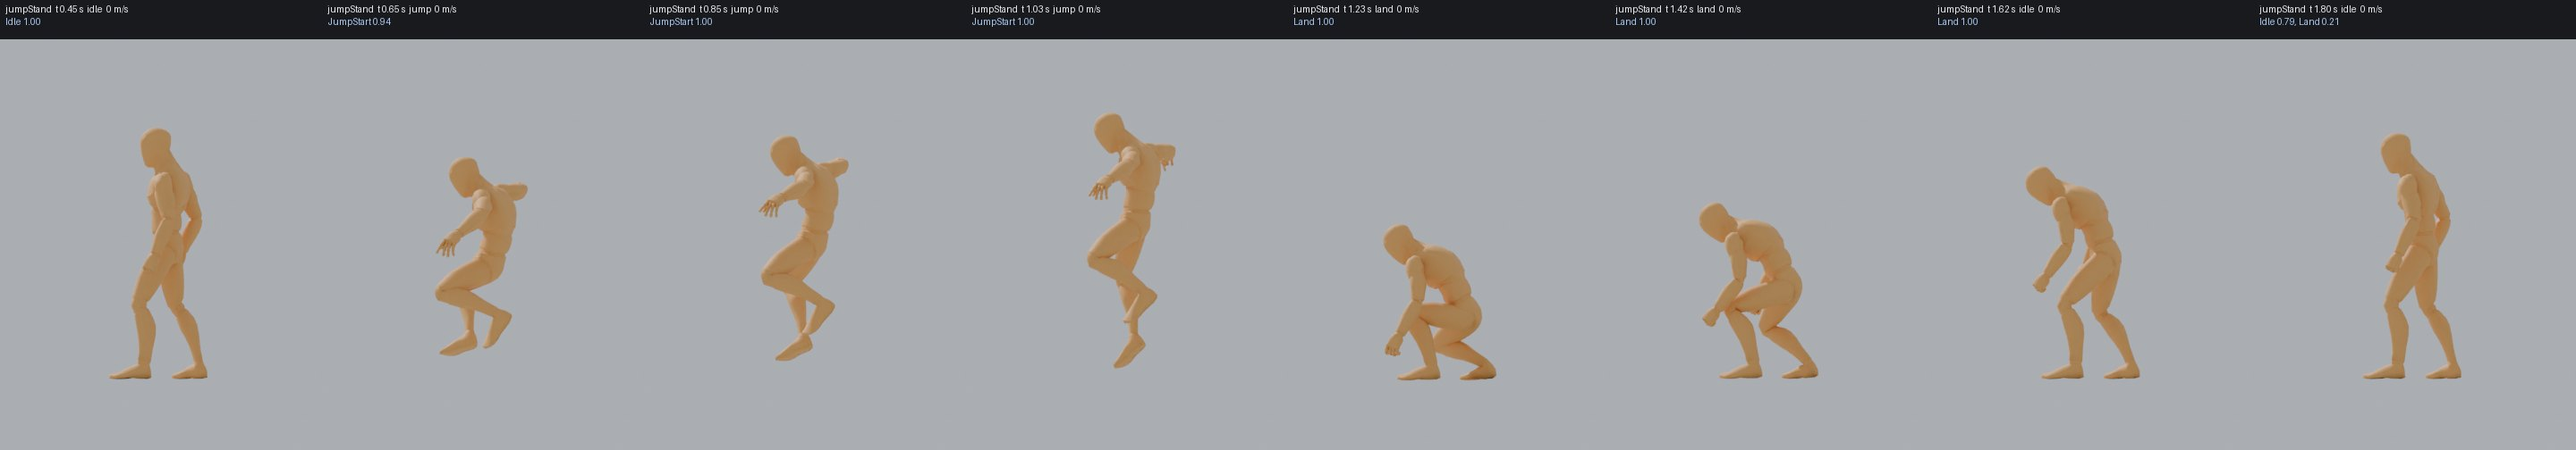
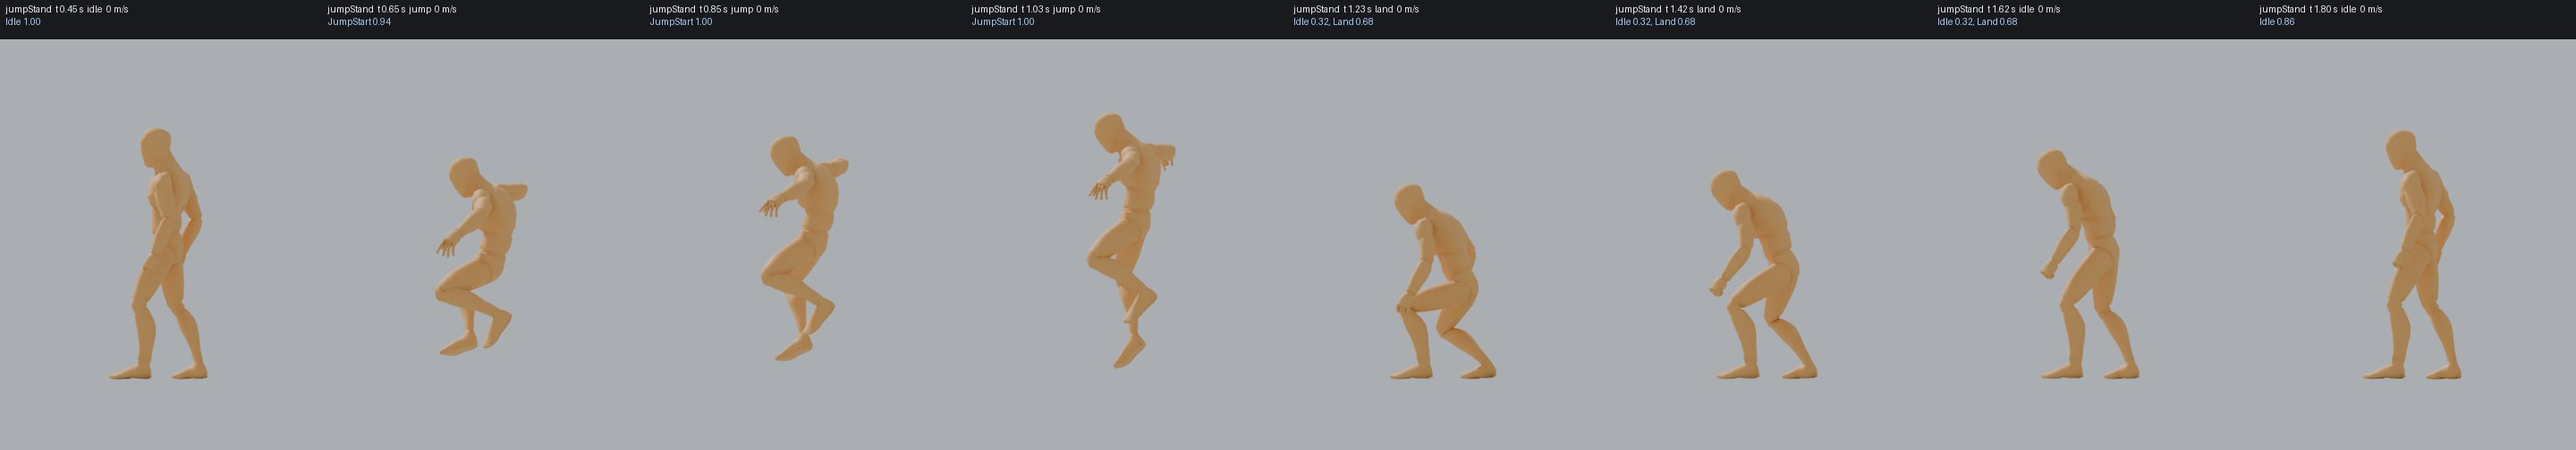
UAL: city fix (leg measure read a stale parent matrix: every leg lifted 30 cm in the city), stair foot float (planted leg-lift released in ~1 frame), body onto the ground at touch-down, stairs scan reaches 2.25 m ahead when running, landing crouch mixed by fall speed; browser strip tiler

diff --git a/viewer/character/locomotion.js b/viewer/character/locomotion.js
@@ -292,6 +292,7 @@ export class Locomotion {
   _land(fallV, st) {
     const C = this.role;
     // a hard landing at speed: the roll (in place: the body keeps the controller's speed)
+    this._landW = 1;
     if (C.roll && fallV > this.p.rollFall && st.speed > 2.5) { this.cur = C.roll; C.roll.t = C.roll.meta.touchdown ? Math.max(0, C.roll.meta.touchdown - 0.55) : 0; this._landHold = Math.max(0.3, C.roll.dur - C.roll.t - 0.25); this._go("land", 0.08); return; }
     // running on: straight back into the run (the IK's landing absorb dips the pelvis), no crouching land
     if (st.speed > 0.6 * this.runSpeed && fallV < 7) { this.cur = null; this.phase = 0.25; this._go("move", 0.22); return; }
@@ -299,7 +300,9 @@ export class Locomotion {
       // the jump clip's own landing
       this.cur = C.jump; C.jump.t = C.jump.meta.touchdown ?? C.jump.t; this._landHold = 0.45; this._go("land", 0.06);
     } else if (C.land && fallV > 3.5) {
+      // (the UAL landing is a deep crouch: mixed with the standing pose by the fall speed, a hop's landing is a dip)
       this.cur = C.land; C.land.t = C.land.meta.touchdown ?? 0; this._landHold = Math.min(0.7, 0.25 + fallV * 0.05); this._go("land", 0.06);
+      this._landW = Math.min(1, Math.max(0.35, 0.35 + (fallV - 4) / 6));
     } else { this.cur = null; this._go(st.speed > 0.3 ? "move" : "idle", 0.1); }
   }
 
@@ -388,7 +391,10 @@ export class Locomotion {
       }
       case "fall": { const c = C.fall; if (c) { c.t = (c.t + dt) % c.dur; c.target = 1; } else if (C.idle) C.idle.target = 1; break; }
       case "land": {
-        const c = this.cur; c.t = Math.min(c.dur, c.t + dt * (speed > 1 ? 1.4 : 1)); c.target = 1;
+        const c = this.cur; c.t = Math.min(c.dur, c.t + dt * (speed > 1 ? 1.4 : 1));
+        const lw = c === C.land ? this._landW ?? 1 : 1, id = this._idleClip(st);
+        c.target = lw;
+        if (lw < 1 && id) { id.t = (id.t + dt) % id.dur; id.target = 1 - lw; }
         this._landHold -= dt * (wantMove ? 2 : 1);
         if (this._landHold <= 0) { this.cur = null; if (speed > 0.3 || wantMove) { this.phase = 0.25; this._go("move", 0.25); } else this._go("idle", 0.35); }
         break;
@@ -668,7 +674,7 @@ export class Locomotion {
       const L = ik.legs[i];
       const want = L.need === null ? 0 : Math.max(0, Math.min(0.3, L.need - this.fit));
       const cur = L.lift || 0;
-      L.lift = cur + (want - cur) * (1 - Math.exp(-dt / (want > cur || L.planted ? 0.02 : 0.08)));
+      L.lift = cur + (want - cur) * (1 - Math.exp(-dt / (L.planted && want < cur ? 0.008 : want > cur || L.planted ? 0.02 : 0.08)));
       // (the edge slide: on while planted, eased; a swinging foot carries none)
       L.sw = (L.sw || 0) + ((L.planted && (L.slx || L.slz) ? 1 : 0) - (L.sw || 0)) * (1 - Math.exp(-dt / 0.04));
       if (L.lift < 2e-3 && L.sw < 2e-3) continue;

diff --git a/viewer/character/index.js b/viewer/character/index.js
@@ -188,8 +188,10 @@ export class ThirdPerson {
     const vl = Math.hypot(c.vel[0], c.vel[2]);
     if (vl > 0.2) { dx = c.vel[0] / vl; dz = c.vel[2] / vl; }
     const x0 = c.pos[0], y0 = c.pos[1], z0 = c.pos[2];
+    // (running: the rays spread up to 2.25 m ahead, 10 cm apart, so the body slows before the first step)
+    const sp = 0.05 * Math.min(2, Math.max(1, vl / 2.5));
     for (let i = 0; i < 26; i++) {
-      const s = -0.25 + 0.05 * i;
+      const s = -0.25 + sp * i;
       R[0] = x0 + dx * s; R[1] = y0 + 0.9; R[2] = z0 + dz * s; R[3] = 0; R[4] = -1; R[5] = 0; H[0] = 2; H[4] = -1;
       W.raycast();
       h[i] = H[4] >= 0 && H[2] > 0.7 ? y0 + 0.9 - H[0] : NaN;
@@ -203,7 +205,7 @@ export class ThirdPerson {
       if (sgn && g !== sgn) { n = 0; nr = 0; nt = 0; last = -1e9; }
       sgn = g; n++; rs[nr++] = Math.abs(d);
       // the riser's place between the two samples: bisected (3 more rays: ~6 mm)
-      let a = -0.25 + 0.05 * i, b = a + 0.05;
+      let a = -0.25 + sp * i, b = a + sp;
       for (let it = 0; it < 3; it++) {
         const m = (a + b) * 0.5;
         R[0] = x0 + dx * m; R[1] = y0 + 0.9; R[2] = z0 + dz * m; R[3] = 0; R[4] = -1; R[5] = 0; H[0] = 2; H[4] = -1;
@@ -239,7 +241,7 @@ export class ThirdPerson {
     }
     S.ahead = ahead;
     // (the stair gait starts with the step that reaches the next riser, not a metre before)
-    const near = ahead > 8 ? 1 : 1 - Math.min(1, Math.max(0, (ahead - 0.25) / 0.5));
+    const near = ahead > 8 ? 1 : 1 - Math.min(1, Math.max(0, (ahead - 0.25) / Math.max(0.5, vl * 0.35)));
     const want = ok ? near * near * (3 - 2 * near) : 0;
     S.k += (want - S.k) * (1 - Math.exp(-(want > S.k ? 10 : 8) * dt));
     if (S.k < 0.01 && !ok) { S.dir = 0; S.ahead = 9; }
@@ -278,11 +280,14 @@ export class ThirdPerson {
       if (n) target = sum / n;
       target = Math.min(py + 0.3, Math.max(py - 0.3, target));       // (never more than a step from the capsule's feet)
     }
-    if (!B.init) { B.y = target; B.v = 0; B.init = true; }
+    // (a touch-down from the air: onto the ground at once; the spring trails a falling body by ~v / om, which left the
+    // landing feet floating for a few frames)
+    if (!B.init || (c.grounded && !B.air0 && B.wasAir && B.y > target)) { B.y = target; B.v = 0; B.init = true; }
     else if (dt > 0) {
       const om = c.grounded ? 20 : 45, e = B.y - target, ex = Math.exp(-om * dt), tmp = (B.v + om * e) * dt;
       B.v = (B.v - om * tmp) * ex; B.y = target + (e + tmp) * ex;
     }
+    B.wasAir = !c.grounded;
     return B.y;
   }
   /** Where the character is (feet, interpolated). */

diff --git a/viewer/character/legIK.js b/viewer/character/legIK.js
@@ -65,7 +65,9 @@ export class LegIK {
 
   /** Leg lengths and the ankle / ball heights over the sole, in the current (standing) pose. */
   _measure() {
-    this.model.updateMatrixWorld(true);
+    // (the parents' world matrices too: in the city the slot already stands 70 m up when the model is set, and a stale
+    // parent matrix put the box's floor at 0 while the bones were at 70: every leg "lifted" 30 cm)
+    this.model.updateWorldMatrix(true, true);
     const box = new THREE.Box3().setFromObject(this.model);
     const floor = box.min.y;
     for (const L of this.legs) {

diff --git a/tools/characters/shotStrip.py b/tools/characters/shotStrip.py
@@ -1,0 +1,21 @@
+# Browser pose strips: crops real screenshots (the character centred by the side camera) and tiles them, labelled.
+#   python tools/characters/shotStrip.py <out.jpg> <labels.json> <shot0.jpeg> <shot1.jpeg> ... [--crop x0,y0,x1,y1]
+# labels.json: [{t, mode, speed, top, stairs}, ...] (the in-page harness log, one per shot)
+import sys, json
+from PIL import Image, ImageDraw
+args = sys.argv[1:]
+crop = (430, 150, 1010, 790)
+if "--crop" in args:
+    i = args.index("--crop"); crop = tuple(int(v) for v in args[i + 1].split(",")); del args[i:i + 2]
+out, labels, shots = args[0], json.load(open(args[1])), args[2:]
+ims = [Image.open(s).convert("RGB").crop(crop) for s in shots]
+w, h = ims[0].size
+strip = Image.new("RGB", (w * len(ims), h + 40), (24, 26, 30))
+d = ImageDraw.Draw(strip)
+for i, im in enumerate(ims):
+    strip.paste(im, (i * w, 40))
+    f = labels[i] if i < len(labels) else {}
+    d.text((i * w + 6, 4), f"t {f.get('t', '')} s  {f.get('mode', '')}  {f.get('speed', '')} m/s" + (f"  stairs {f['stairs']}" if f.get("stairs") else ""), fill=(235, 235, 235))
+    d.text((i * w + 6, 20), str(f.get("top", ""))[:70], fill=(170, 200, 240))
+strip.save(out, quality=84)
+print("wrote", out, strip.size)
